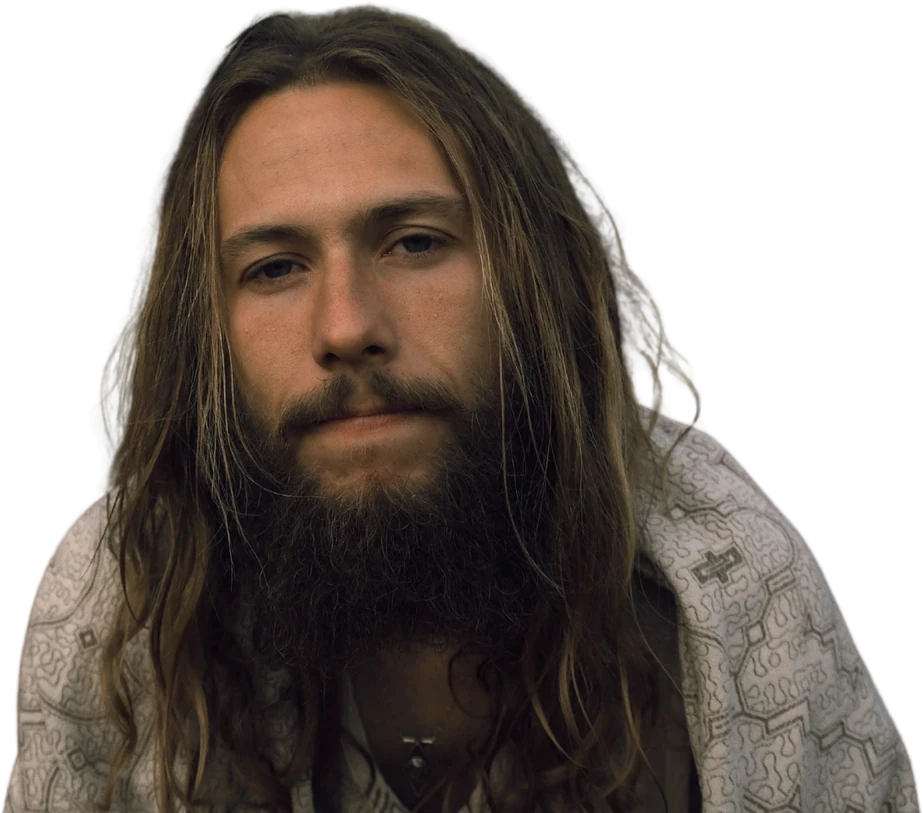
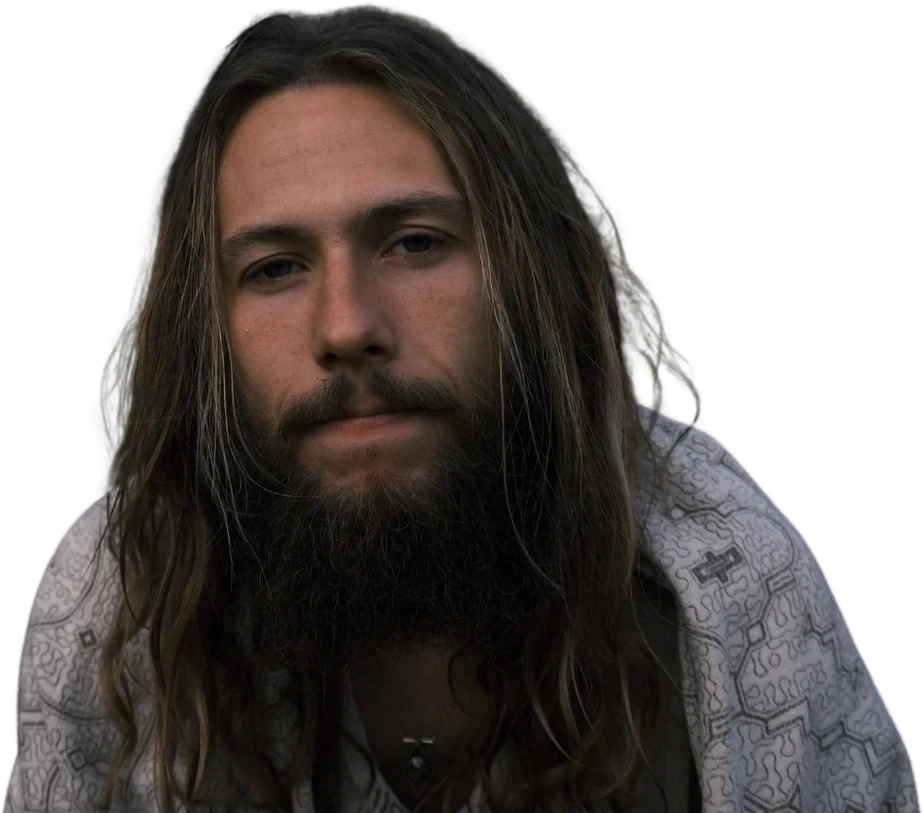
Desktop hero cutout: restore the original photo's colours (remove the yellow-green grade)
Claude-Session: https://claude.ai/code/session_01X5u2D9a4RRbbCvwnE6RQKF

diff --git a/frontend/src/components/site/journeyEngine.js b/frontend/src/components/site/journeyEngine.js
@@ -38,7 +38,7 @@ import { createFinale, FINALE } from "./finale";
 const A = "/journey/";
 // Cache-buster for re-encoded media (Burnell's MEDIA_V): bump it whenever a video, the song or the
 // hero stills are replaced, or phones keep showing the old files.
-const MV = "?v=4";
+const MV = "?v=5";
 
 const HERO_SETS = {
   desktop: { w: 1920, h: 1740, video: "trev-hero-desktop.mp4", poster: "trev-hero-desktop-poster.jpg",
